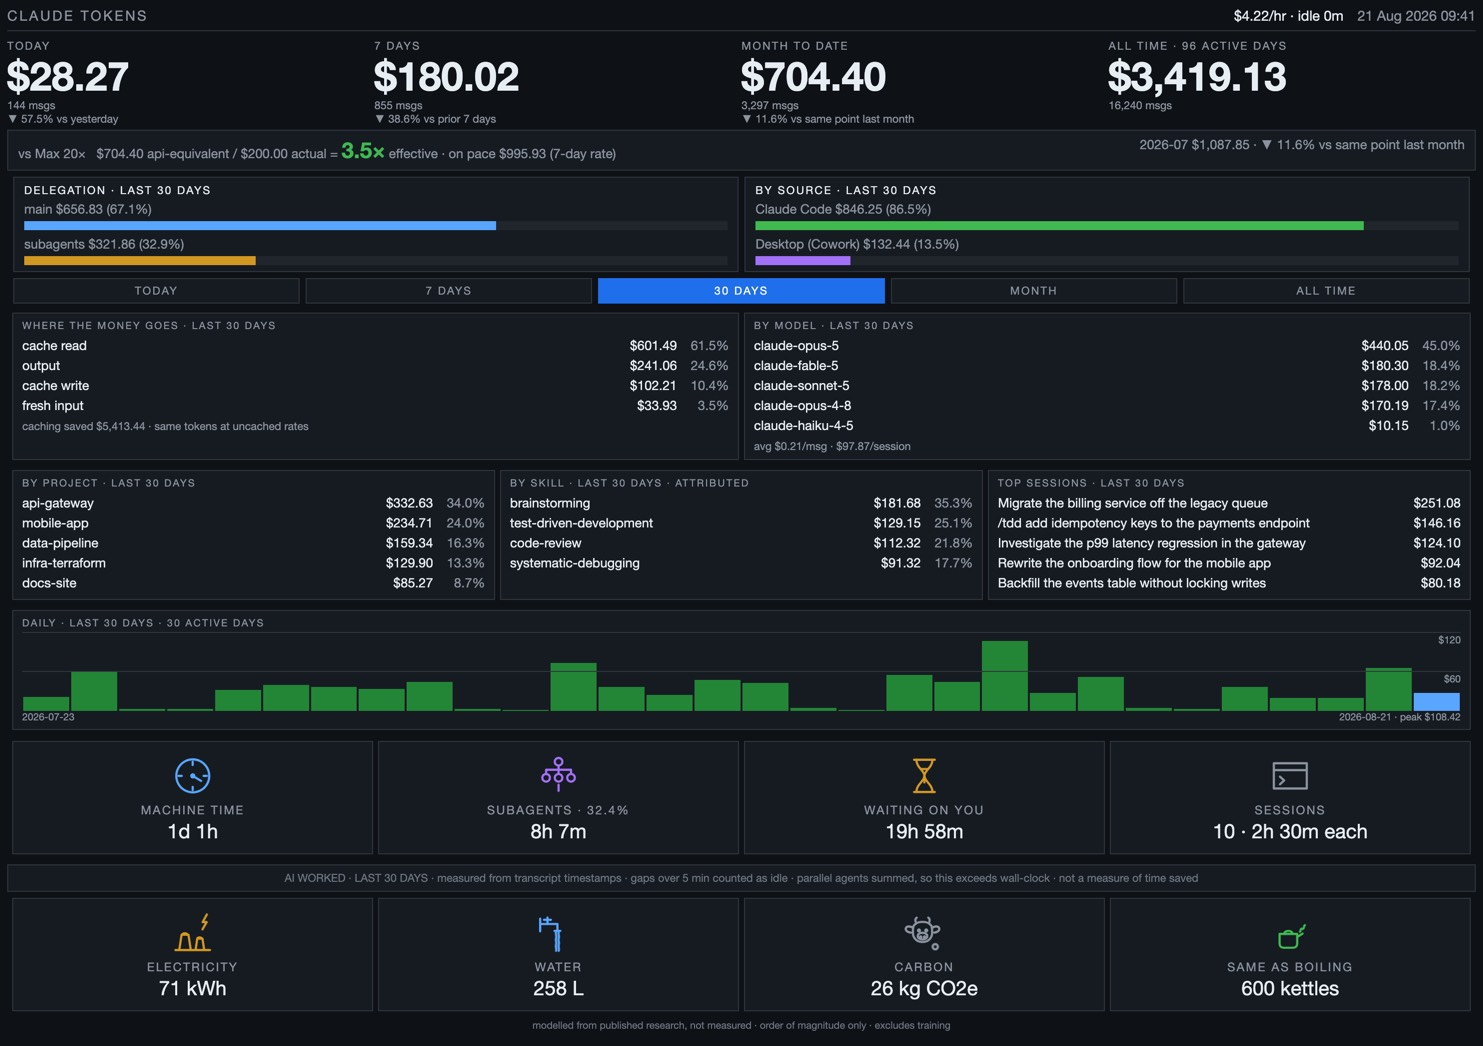
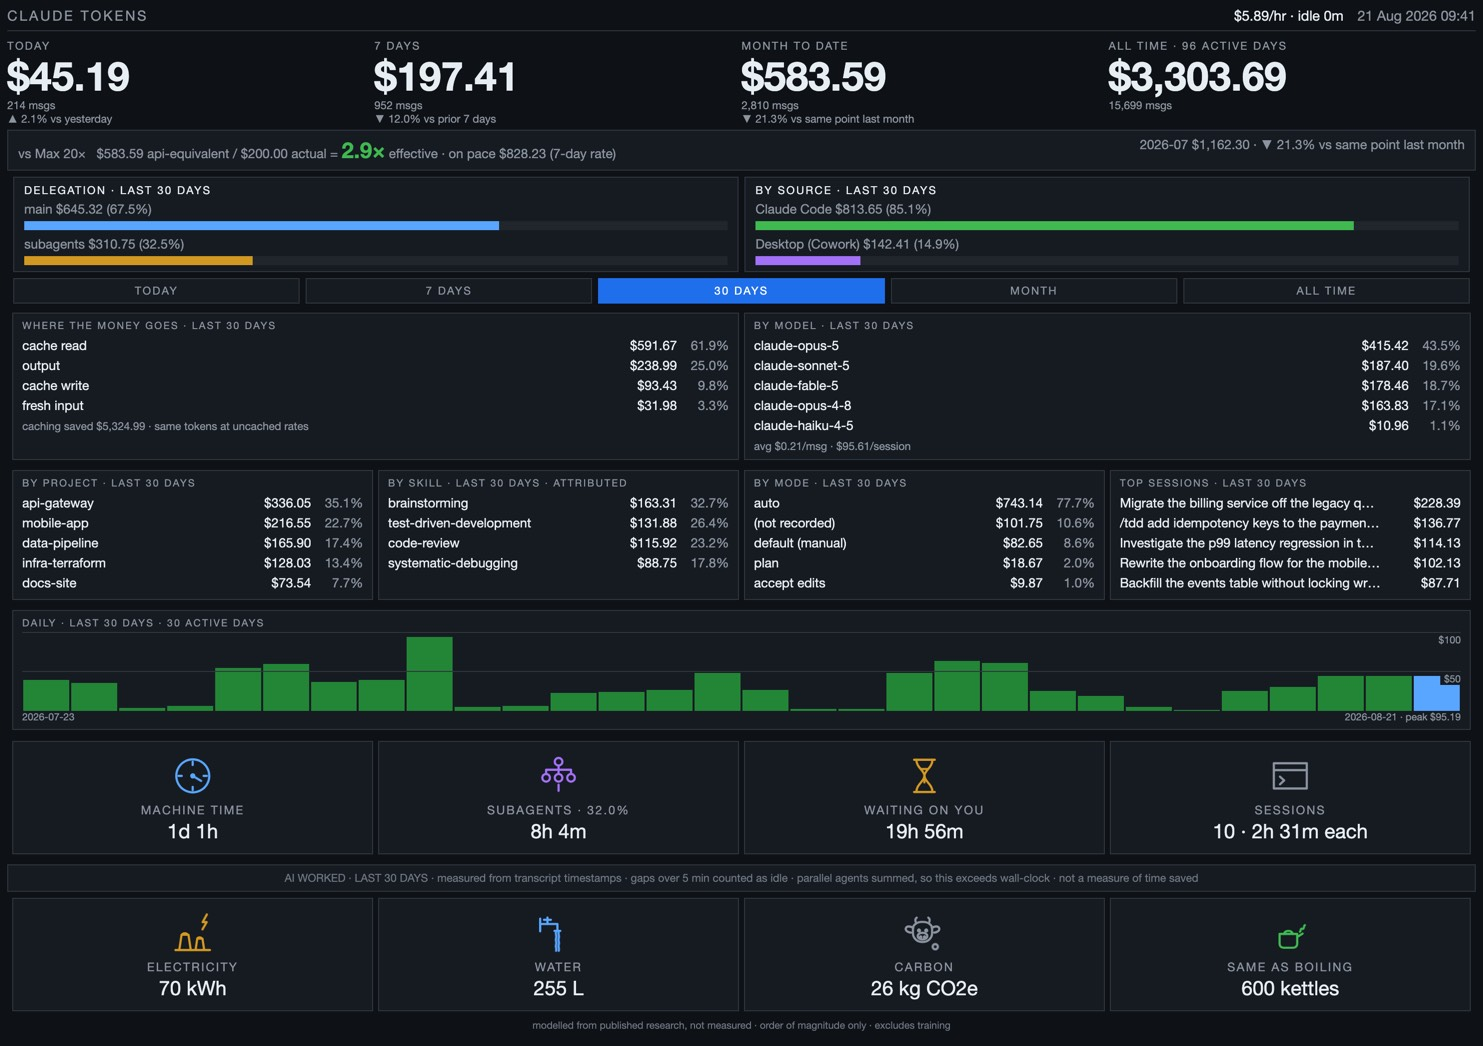
Show which permission mode the spend ran under
Adds a BY MODE panel: auto, default (manual), plan, accept edits,
bypass permissions.

Assistant messages never carry the mode — checked across 663 transcripts,
all 28,422 of them lack it. It arrives as its own record,
{"type": "permission-mode", "permissionMode": ...}, and on some user
turns; neither has a timestamp. So scan tracks it as state in file order
and stamps the messages that follow, resetting per file so one
conversation cannot leak into the next.

That attribution is safe in a way worth stating: where a session records a
mode at all, it does so before its first assistant message — median and
max both zero across the real corpus — so nothing inside a covered session
is misattributed. What is not covered is whole sessions that never record
one: 37% of messages, but only ~10% of spend, since those are older and
cheaper.

That bucket is displayed as "(not recorded)" rather than filtered.
Dropping it would renormalise the rest into looking like the whole
picture. This is the opposite call to BY SKILL, which does drop its
unattributed slice — at ~90% it made the panel unreadable, where 10% is
information. CLAUDE.md now records both.

Placed as a fourth panel in the breakdown row rather than a third band.
Five meters made the bands row the tallest thing on the page and cost
102px; the breakdown row is already sized by five-row panels, so this
costs nothing. Page stays at 1014px.

bypassPermissions was not in the survey and appeared on real data anyway.
[…]

diff --git a/tests/fixtures/golden_dashboard.html b/tests/fixtures/golden_dashboard.html
@@ -146,6 +146,7 @@ $41.15/session</div><div class="note">1 unpriced model(s), counted but not coste
 <tr>
 <td><h2>BY PROJECT &middot; LAST 30 DAYS</h2><table class="rows"><tr><td>alpha</td><td class="amt">$600.00</td><td class="pct">60.0%</td><td class="barcell"><div class="bar"><div class="fill" style="width:60.0%;background:#58a6ff"></div></div></td></tr><tr><td>beta</td><td class="amt">$400.00</td><td class="pct">40.0%</td><td class="barcell"><div class="bar"><div class="fill" style="width:40.0%;background:#d29922"></div></div></td></tr></table></td>
 <td><h2>BY SKILL &middot; LAST 30 DAYS &middot; ATTRIBUTED</h2><table class="rows"><tr><td>graphify</td><td class="amt">$550.00</td><td class="pct">55.0%</td><td class="barcell"><div class="bar"><div class="fill" style="width:55.0%;background:#58a6ff"></div></div></td></tr><tr><td>code-review</td><td class="amt">$450.00</td><td class="pct">45.0%</td><td class="barcell"><div class="bar"><div class="fill" style="width:45.0%;background:#d29922"></div></div></td></tr></table></td>
+<td><h2>BY MODE &middot; LAST 30 DAYS</h2><div class="note">no data yet</div></td>
 <td><h2>TOP SESSIONS &middot; LAST 30 DAYS</h2><table class="srows"><tr><td class="stitle">/graphify refactor billing</td><td class="amt">$220.00</td></tr><tr><td class="stitle">(untitled session)</td><td class="amt">$80.00</td></tr></table></td>
 </tr>
 </tbody></table>

diff --git a/tests/test_worked.py b/tests/test_worked.py
@@ -288,3 +288,86 @@ def test_no_panel_without_measured_time():
     would read as a measurement of nothing rather than an absence."""
     out = render_html.render(aggregate.build([rec("m1", 0)], {}, now=NOW))
     assert "AI WORKED" not in out
+
+
+# --- permission mode ----------------------------------------------------
+
+def mode_event(mode: str) -> dict:
+    """How a mode arrives: its own record, with no timestamp."""
+    return {"type": "permission-mode", "permissionMode": mode, "sessionId": "s1"}
+
+
+def modes_of(tmp_path, *entries) -> list[str]:
+    return [r.mode for r in scan.scan(transcript(tmp_path, *entries)).records]
+
+
+def test_a_mode_event_stamps_the_messages_that_follow_it(tmp_path):
+    assert modes_of(tmp_path, mode_event("plan"), human(0), assistant(10, "m1")) == ["plan"]
+
+
+def test_a_mode_change_applies_from_where_it_happens(tmp_path):
+    """Switching out of plan mid-session must not retroactively relabel the
+    planning that came before it."""
+    got = modes_of(
+        tmp_path,
+        mode_event("plan"), human(0), assistant(10, "m1"),
+        mode_event("auto"), assistant(20, "m2"),
+    )
+    assert got == ["plan", "auto"]
+
+
+def test_a_session_that_never_says_stays_unrecorded(tmp_path):
+    """37% of a real history. Assuming it into the majority would be a
+    fabrication, and the page shows the bucket rather than hiding it."""
+    assert modes_of(tmp_path, human(0), assistant(10, "m1")) == [scan.UNKNOWN_MODE]
+
+
+def test_the_mode_can_also_arrive_on_a_user_turn(tmp_path):
+    """Some user records carry permissionMode instead of a dedicated event."""
+    turn = dict(human(0))
+    turn["permissionMode"] = "acceptEdits"
+    assert modes_of(tmp_path, turn, assistant(10, "m1")) == ["acceptEdits"]
+
+
+def test_mode_does_not_leak_between_transcripts(tmp_path):
+    """Each file is one conversation; state must not carry across."""
+    (tmp_path / "a").mkdir()
+    (tmp_path / "b").mkdir()
+    import json as _json
+    (tmp_path / "a" / "s.jsonl").write_text(
+        "".join(_json.dumps(e) + "\n" for e in
+                (mode_event("plan"), human(0), assistant(10, "m1"))), encoding="utf-8")
+    (tmp_path / "b" / "s.jsonl").write_text(
+        "".join(_json.dumps(e) + "\n" for e in
+                (human(0), assistant(10, "m2"))), encoding="utf-8")
+    got = {r.message_id: r.mode for r in scan.scan(tmp_path).records}
+    assert got == {"m1": "plan", "m2": scan.UNKNOWN_MODE}
+
+
+def test_mode_survives_a_store_round_trip(tmp_path):
+    result = scan.scan(transcript(tmp_path, mode_event("auto"), human(0), assistant(10, "m1")))
+    with store.Store(tmp_path / "m.db") as db:
+        db.ingest(result)
+        assert [r.mode for r in db.records()] == ["auto"]
+
+
+def test_the_band_shows_every_mode_including_the_unrecorded_one():
+    """Filtering the unrecorded bucket would silently renormalise the rest
+    into looking like the whole picture."""
+    records = [rec("m1", 60, mode="auto"), rec("m2", 60, mode=scan.UNKNOWN_MODE)]
+    out = render_html.render(aggregate.build(records, {}, now=NOW))
+    assert "BY MODE &middot;" in out
+    assert scan.UNKNOWN_MODE in out
+    shares = aggregate.build(records, {}, now=NOW).scoped.by_mode
+    assert sum(b.share for b in shares) == pytest.approx(1.0)
+
+
+def test_default_mode_is_labelled_for_humans():
+    """Claude Code calls it "default"; people call it manual."""
+    out = render_html.render(aggregate.build([rec("m1", 60, mode="default")], {}, now=NOW))
+    assert "default (manual)" in out
+
+
+def test_an_unknown_mode_is_shown_rather_than_dropped():
+    out = render_html.render(aggregate.build([rec("m1", 60, mode="warp-speed")], {}, now=NOW))
+    assert "warp-speed" in out

diff --git a/dashboard/aggregate.py b/dashboard/aggregate.py
@@ -54,6 +54,18 @@ SOURCE_LABELS = {
     "cowork": "Desktop (Cowork)",
 }
 
+#: Display names for UsageRecord.mode. "default" is what Claude Code calls
+#: the mode where every action is approved individually; "manual" is what
+#: people call it, so the page says both. An unrecognised mode is shown
+#: verbatim rather than dropped.
+MODE_LABELS = {
+    "auto": "auto",
+    "default": "default (manual)",
+    "plan": "plan",
+    "acceptEdits": "accept edits",
+    "bypassPermissions": "bypass permissions",
+}
+
 
 def _bars(totals: dict[str, float], grand_total: float, top_n: int | None) -> list[Bar]:
     ordered = sorted(totals.items(), key=lambda item: item[1], reverse=True)
@@ -188,6 +200,7 @@ def build(
     by_skill: dict[str, float] = defaultdict(float)
     by_session: dict[str, float] = defaultdict(float)
     by_source: dict[str, float] = defaultdict(float)
+    by_mode: dict[str, float] = defaultdict(float)
     per_day: dict[str, float] = defaultdict(float)
     # Global, not range-scoped: the plan band talks about this month
     # regardless of which range the panels below are showing.
@@ -240,6 +253,7 @@ def build(
             by_skill[record.skill] += value
         by_session[record.session_id] += value
         by_source[SOURCE_LABELS.get(record.source, record.source)] += value
+        by_mode[MODE_LABELS.get(record.mode, record.mode)] += value
         per_day[record.day] += value
 
         if record.is_subagent:
@@ -291,6 +305,10 @@ def build(
         # Every surface, not a top-N: a source that has been dropped off the
         # page is indistinguishable from one costing nothing.
         by_source=_bars(dict(by_source), grand_total, None),
+        # Every mode, not a top-N, and the unrecorded bucket stays in: at
+        # ~37% of messages it is real information about the history rather
+        # than noise, and dropping it would make the shares lie.
+        by_mode=_bars(dict(by_mode), grand_total, None),
         top_sessions=session_bars,
         daily=[DayCost(day=day, cost=per_day[day]) for day in recent_days],
         main_cost=main_cost,

diff --git a/dashboard/scan.py b/dashboard/scan.py
@@ -47,6 +47,18 @@ MAX_WORK_GAP_SECONDS = 300.0
 #: and the seconds belong to neither side of the clock.
 MAX_WAIT_GAP_SECONDS = 900.0
 
+#: Assistant messages never carry the permission mode. It arrives as its own
+#: record — `{"type": "permission-mode", "permissionMode": ...}` — and on
+#: some user turns, with no timestamp on either. So it is tracked as state in
+#: file order and stamped onto the messages that follow.
+#:
+#: Measured on 663 real transcripts: where a session records a mode at all it
+#: does so before its first assistant message (median and max both zero), so
+#: nothing inside a covered session is misattributed. What is not covered is
+#: whole sessions that never record one — 37% of messages — and those stay
+#: UNKNOWN_MODE rather than being assumed into the majority.
+UNKNOWN_MODE = "(not recorded)"
+
 
 class FileState(NamedTuple):
     """What we knew about a transcript after the last pass.
@@ -240,6 +252,7 @@ def scan(
         pending_work = 0.0
         pending_wait = 0.0
         last_emitted = None
+        mode = UNKNOWN_MODE
         for raw in chunk[:end].split(b"\n"):
             if not raw.strip():
                 continue
@@ -254,6 +267,10 @@ def scan(
 
             session_id = entry.get("sessionId") or entry.get("session_id") or ""
             kind = entry.get("type")
+
+            declared = entry.get("permissionMode")
+            if declared:
+                mode = str(declared)
 
             # Machine time, accumulated across every record type. A gap that
             # ends at a human turn is the human thinking and is discarded;
@@ -318,6 +335,7 @@ def scan(
                     source=source,
                     work_seconds=pending_work,
                     wait_seconds=pending_wait,
+                    mode=mode,
                 )
             )
             last_emitted = len(records) - 1

diff --git a/tests/test_render_html.py b/tests/test_render_html.py
@@ -154,6 +154,7 @@ def test_page_shows_every_panel_heading(page):
         "BY MODEL",
         "BY PROJECT",
         "BY SKILL",
+        "BY MODE &middot;",
         "TOP SESSIONS",
         "DAILY",
     ):
@@ -492,8 +493,8 @@ def test_source_band_is_omitted_when_there_is_no_data():
 
 
 def test_bands_sit_side_by_side_to_protect_the_vertical_budget():
-    """The iPad's first screen is 748px. Stacking DELEGATION above BY SOURCE
-    costs ~60px and pushes the daily chart off it, so both must share one row."""
+    """Stacking the bands costs ~60px each and pushes the daily chart off the
+    first screen, so all of them share one row."""
     records = [
         rec("m1", "2026-07-30"),
         rec("m2", "2026-07-30", is_subagent=True, source="cowork"),
@@ -507,7 +508,7 @@ def test_bands_sit_side_by_side_to_protect_the_vertical_budget():
 
 def test_a_lone_band_spans_the_full_width_rather_than_leaving_a_hole():
     """Delegation needs main+subagent cost; a records set with neither leaves
-    only the source band, which must not render as a half-width cell."""
+    only the source band, which must not render as a third-width cell."""
     data = _bare_data(by_source=[Bar(label="Claude Code", cost=5.0, share=1.0)])
     out = render_html.render(data)
     assert 'colspan="2"' in out

diff --git a/dashboard/store.py b/dashboard/store.py
@@ -29,7 +29,8 @@ CREATE TABLE IF NOT EXISTS usage (
   is_subagent       INTEGER NOT NULL DEFAULT 0,
   source            TEXT NOT NULL DEFAULT 'code',
   work_seconds      REAL    NOT NULL DEFAULT 0,
-  wait_seconds      REAL    NOT NULL DEFAULT 0
+  wait_seconds      REAL    NOT NULL DEFAULT 0,
+  mode              TEXT    NOT NULL DEFAULT '(not recorded)'
 );
 CREATE INDEX IF NOT EXISTS usage_day ON usage(day);
 
@@ -68,6 +69,7 @@ _FIELDS = (
     "source",
     "work_seconds",
     "wait_seconds",
+    "mode",
 )
 _COLUMNS = ", ".join(_FIELDS)
 _PLACEHOLDERS = ",".join("?" * len(_FIELDS))
@@ -122,6 +124,11 @@ class Store:
         if "wait_seconds" not in existing:
             self._conn.execute(
                 "ALTER TABLE usage ADD COLUMN wait_seconds REAL NOT NULL DEFAULT 0"
+            )
+        if "mode" not in existing:
+            self._conn.execute(
+                "ALTER TABLE usage ADD COLUMN mode TEXT NOT NULL "
+                "DEFAULT '(not recorded)'"
             )
         # Incremental reads. Existing rows get offset 0 and an empty head,
         # which _resume_offset treats as "re-read this once" — the next pass

diff --git a/dashboard/models.py b/dashboard/models.py
@@ -45,6 +45,9 @@ class UsageRecord(NamedTuple):
     #: Seconds spent waiting for the person before this message: the gap
     #: ending at their turn. The other side of the same clock.
     wait_seconds: float = 0.0
+    #: Permission mode in force — auto, default, plan, acceptEdits. Tracked
+    #: as state by scan, since the message itself never carries it.
+    mode: str = "(not recorded)"
 
 
 class Plan(NamedTuple):
@@ -123,6 +126,7 @@ class RangeView:
     by_project: list[Bar] = field(default_factory=list)
     by_skill: list[Bar] = field(default_factory=list)
     by_source: list[Bar] = field(default_factory=list)
+    by_mode: list[Bar] = field(default_factory=list)
     top_sessions: list[Bar] = field(default_factory=list)
     daily: list[DayCost] = field(default_factory=list)
     main_cost: float = 0.0

diff --git a/dashboard/render_html.py b/dashboard/render_html.py
@@ -21,6 +21,7 @@ BAR_COLOURS = ("#58a6ff", "#d29922", "#3fb950", "#8b949e", "#a371f7")
 #: that the tail stops mattering.
 SESSION_TITLE_CAP = 200
 SOURCE_COLOURS = ("#3fb950", "#a371f7", "#58a6ff", "#d29922", "#8b949e")
+MODE_COLOURS = ("#58a6ff", "#8b949e", "#d29922", "#3fb950", "#a371f7")
 DAILY_CHART_HEIGHT_PX = 78
 
 CSS = """
@@ -795,6 +796,7 @@ def render(
 <tr>
 <td><h2>BY PROJECT &middot; {escape(view.label)}</h2>{_rows(view.by_project)}</td>
 <td><h2>BY SKILL &middot; {escape(view.label)} &middot; ATTRIBUTED</h2>{_rows(view.by_skill)}</td>
+<td><h2>BY MODE &middot; {escape(view.label)}</h2>{_rows(view.by_mode)}</td>
 <td><h2>TOP SESSIONS &middot; {escape(view.label)}</h2>{_session_rows(view.top_sessions)}</td>
 </tr>
 </tbody></table>

diff --git a/tools/demo_page.py b/tools/demo_page.py
@@ -59,6 +59,14 @@ SKILLS = [
     ("code-review", 12),
     ("systematic-debugging", 9),
 ]
+MODES = (
+    ("auto", 78),
+    ("(not recorded)", 11),
+    ("default", 8),
+    ("plan", 2),
+    ("acceptEdits", 1),
+)
+
 SOURCES = [("code", 86), ("cowork", 14)]
 
 SESSION_TITLES = [
@@ -148,6 +156,7 @@ def demo_records(rng: random.Random) -> tuple[list[UsageRecord], dict[str, str]]
                     wait_seconds=(
                         rng.uniform(8.0, 240.0) if rng.random() < 0.12 else 0.0
                     ),
+                    mode=_weighted(rng, MODES),
                 )
             )
 

diff --git a/CONTEXT.md b/CONTEXT.md
@@ -83,6 +83,23 @@ number of bars in the daily chart. Distinct from the *width* of a window — a
 30-day range with three active days plots three bars, and saying "last 3 days"
 about it is wrong.
 
+## Permission mode
+
+Which mode a message ran under — `auto`, `default` (approve each action),
+`plan`, `acceptEdits`, `bypassPermissions`. Shown as the BY MODE panel.
+
+Assistant messages never carry it. It arrives as its own record
+(`{"type": "permission-mode", "permissionMode": ...}`) and on some user
+turns, neither of which has a timestamp, so `scan` tracks it as state in
+file order and stamps the messages that follow. Measured across 663 real
+transcripts, a session that records a mode does so before its first
+assistant message, so nothing inside a covered session is misattributed.
+
+Sessions that never record one stay `scan.UNKNOWN_MODE` — about 37% of
+messages but only ~10% of spend, since they are mostly older and cheaper.
+That bucket is displayed rather than filtered: dropping it would
+renormalise the rest into looking like the whole picture.
+
 ## Machine time
 
 How long the model and its tools were actually working —

diff --git a/README.md b/README.md
@@ -41,6 +41,10 @@ layout before you have any history of your own.*
   input, and what caching saved you.
 - **By model, project, skill and session** — which models, repos, skills and
   individual pieces of work cost the most.
+- **By permission mode** — how much ran on auto versus plan, accept-edits or
+  approve-each-action. Tracked as state through the transcript, since the
+  messages themselves do not carry it. Sessions that never recorded a mode
+  are shown as their own slice rather than folded into the majority.
 - **Where the clock went** — four cards: machine time (model generating plus
   tools running), how much of it was subagents in parallel, how long it spent
   waiting on you, and how many sessions that was spread over. Measured from

diff --git a/CLAUDE.md b/CLAUDE.md
@@ -86,6 +86,10 @@ re-litigated are in `docs/adr/`.
   the panel to admit which window it is showing, which is how the bands ended
   up unlabelled and the DAILY heading ended up quoting a window it had not
   measured.
+- **Unattributed buckets are shown, not filtered — except where they drown
+  the panel.** BY MODE keeps its "(not recorded)" slice because it is ~10% of
+  spend and real information. BY SKILL drops "(none)" because it was ~90% and
+  made the panel unreadable. Both headings say what they did.
 - **Machine time is measured; the footprint is modelled.** Keep them
   distinct on the page and in the code. `worked_seconds` comes from
   transcript timestamps and carries no error bar worth speaking of; it must
